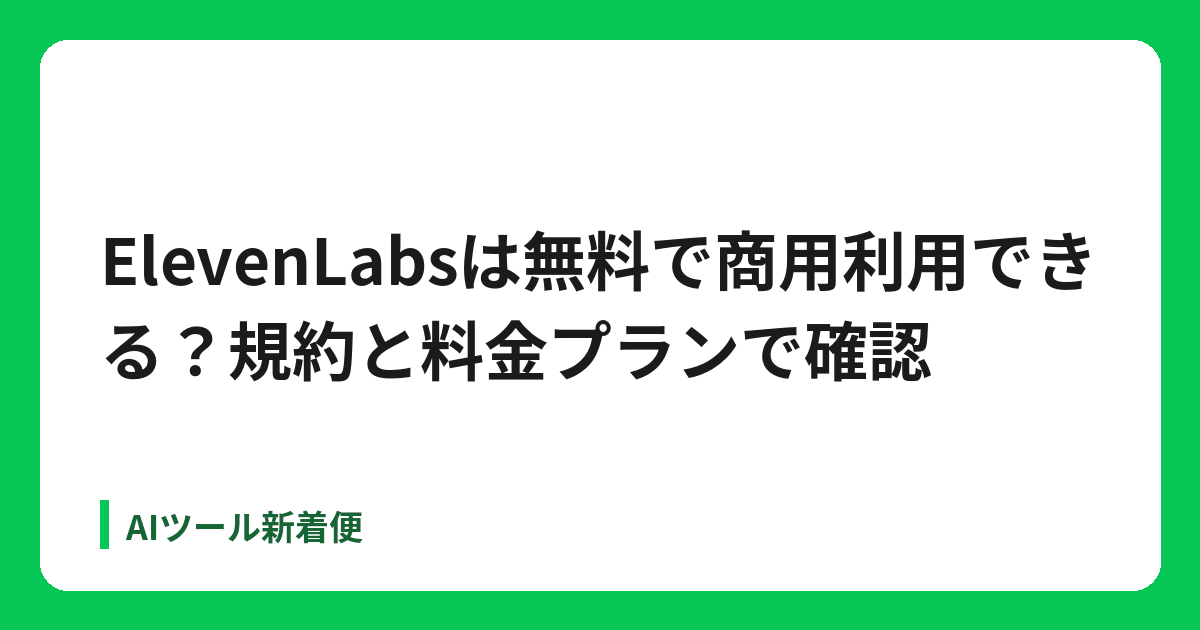
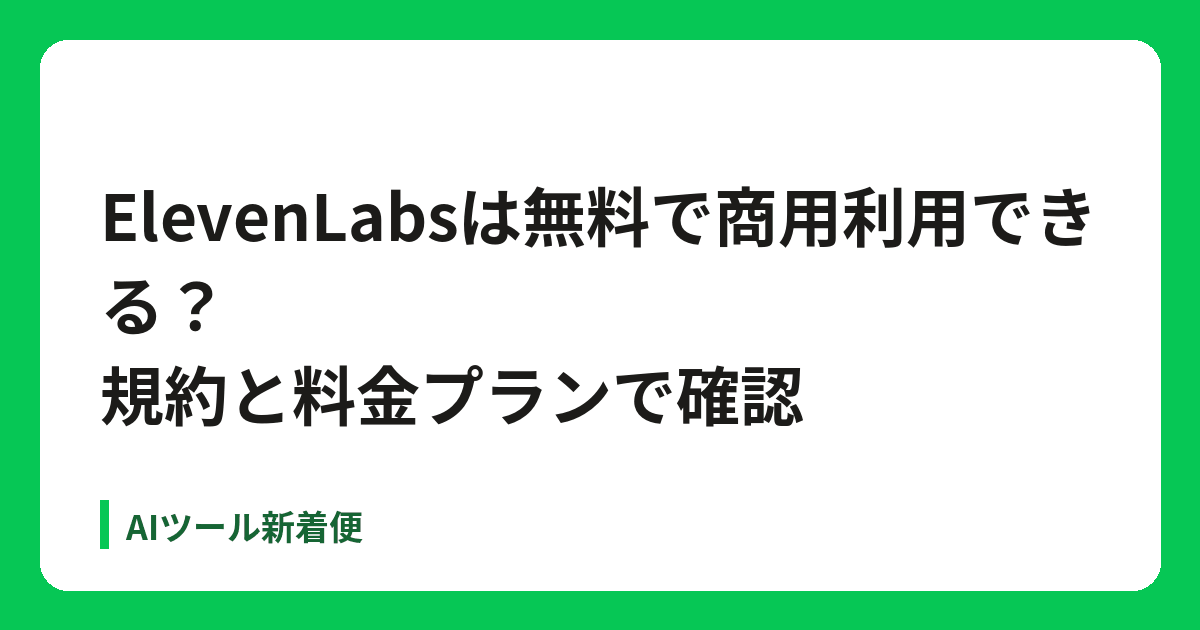
cheapest field, per-tool OG images, table scroll hint

Changed region(s): [[0.0617, 0.3016, 0.925, 0.6937], [0.4008, 0.6635, 0.4317, 0.6937]]

diff --git a/build.js b/build.js
@@ -45,6 +45,7 @@ tbody th,table:not(:has(thead)) th{background:#f6f4ef;font-weight:700;white-spac
 .site-f{margin-top:var(--s7);background:var(--sf);border-top:1px solid var(--bd);padding:var(--s6) 0;font-size:12.5px;color:var(--mu);line-height:1.8}.site-f .links{display:flex;flex-wrap:wrap;gap:var(--s2) var(--s4);margin-bottom:var(--s3);font-size:14px}.site-f .links a{color:var(--tx)}
 
 .ctabox{background:var(--ac-soft);border:1px solid #c7d6fb;border-radius:var(--r);padding:var(--s3) var(--s4);margin:0 0 var(--s5)}.ctabox p{margin:0 0 var(--s2);font-weight:700}.ctabox .cta{min-height:44px;padding:10px 18px}.byline{font-size:13px;color:var(--mu);margin:-8px 0 var(--s4)}.sticky{position:fixed;left:0;right:0;bottom:0;z-index:50;background:rgba(255,255,255,.97);border-top:1px solid var(--bd);padding:8px 12px;display:none;align-items:center;gap:8px}.sticky .cta{margin:0;flex:1;min-height:44px}@media(max-width:640px){.sticky{display:flex}body.hs{padding-bottom:72px}}
+.tw.wide::before{content:'← 横にスクロールできます →';display:none;font-size:12px;color:var(--mu);padding:4px 12px;background:#f6f4ef}@media(max-width:700px){.tw.wide::before{display:block}}
 .glance{border:2px solid #06C755;border-radius:var(--r);padding:var(--s3) var(--s4);margin:0 0 var(--s4);background:#f3fbf5}.glance dl{display:grid;grid-template-columns:6em 1fr;gap:4px 12px;margin:6px 0}.glance dt{font-weight:700}.glance dd{margin:0}.glance p{margin:0;font-size:12px}
 @media(max-width:640px){.w{padding:0 var(--s4)}.site-h .w{padding-top:var(--s2);padding-bottom:var(--s2)}.gnav{gap:0 var(--s3)}.gnav a{font-size:13px}.hero{padding:var(--s6) 0 var(--s5)}h2{font-size:19px;margin-top:var(--s6)}.prose{padding:var(--s5) var(--s4);border-radius:0;border-left:0;border-right:0;margin:0 calc(-1*var(--s4))}.cta{width:100%;margin-right:0}}`;
 const LD=o=>`<script type="application/ld+json">${JSON.stringify(o).replace(/</g,'\\u003c')}</script>`;
@@ -61,12 +62,12 @@ const swExtra=t=>({...(NO_OS.has(t.slug)?{}:{operatingSystem:'Web'}),...(OFFERS[
 const crumbs=items=>({'@context':'https://schema.org','@type':'BreadcrumbList',itemListElement:[['ホーム',BASE+'/'],...items].map(([n,u],i)=>({'@type':'ListItem',position:i+1,name:n,item:u}))});
 const cut=(s,n=120)=>{s=String(s).replace(/\s+/g,' ').trim();return s.length>n?s.slice(0,n-1)+'…':s};
 const last=tools.map(t=>t.checked&&t.checked>t.added?t.checked:t.added).sort().pop();
-function page(file,title,desc,body,rel,ld=[],extra=''){const om=file.match(/^articles\/([^/]+)\/index\.html$/);const OGI=om&&fs.existsSync(`static/og/${om[1]}.png`)?`${BASE}/og/${om[1]}.png`:BASE+'/ogp.png';desc=cut(desc);ld=[...ld];if(file==='index.html')ld.push({'@context':'https://schema.org',...ORG});if(file==='about/index.html')ld.push({'@context':'https://schema.org','@type':['AboutPage','ProfilePage'],name:'このサイトについて',url:BASE+'/about/',inLanguage:'ja',mainEntity:PERSON,about:ORG,publisher:ORG});const LINEBOX=`<aside class="linebox"><a class="linebtn" href="https://line.me/R/ti/p/@014gzpjs" rel="noopener" target="_blank">友だち追加で『無料で使えるAIツールまとめ』をお届け</a><p class="muted">LINE公式アカウント「AIツール新着便」。新着ツールも週に数回お知らせします（<a href="${BASE}/free-ai-tools/">まとめの中身を見る</a>）。</p></aside>`;if(file==='index.html'||/^(articles|tools)\/[^/]+\/index\.html$/.test(file)){body=file==='index.html'?body.replace('</main>',LINEBOX+'</main>'):body.replace(/<\/article>(?![\s\S]*<\/article>)/,LINEBOX+'</article>');if(!body.includes('linebox'))body+=LINEBOX;}
+function page(file,title,desc,body,rel,ld=[],extra=''){const om=file.match(/^(articles|tools)\/([^/]+)\/index\.html$/);const ogn=om?(om[1]==='tools'?'tool-':'')+om[2]:'';const OGI=om&&fs.existsSync(`static/og/${ogn}.png`)?`${BASE}/og/${ogn}.png`:BASE+'/ogp.png';desc=cut(desc);ld=[...ld];if(file==='index.html')ld.push({'@context':'https://schema.org',...ORG});if(file==='about/index.html')ld.push({'@context':'https://schema.org','@type':['AboutPage','ProfilePage'],name:'このサイトについて',url:BASE+'/about/',inLanguage:'ja',mainEntity:PERSON,about:ORG,publisher:ORG});const LINEBOX=`<aside class="linebox"><a class="linebtn" href="https://line.me/R/ti/p/@014gzpjs" rel="noopener" target="_blank">友だち追加で『無料で使えるAIツールまとめ』をお届け</a><p class="muted">LINE公式アカウント「AIツール新着便」。新着ツールも週に数回お知らせします（<a href="${BASE}/free-ai-tools/">まとめの中身を見る</a>）。</p></aside>`;if(file==='index.html'||/^(articles|tools)\/[^/]+\/index\.html$/.test(file)){body=file==='index.html'?body.replace('</main>',LINEBOX+'</main>'):body.replace(/<\/article>(?![\s\S]*<\/article>)/,LINEBOX+'</article>');if(!body.includes('linebox'))body+=LINEBOX;}
  const url=BASE+'/'+file.replace(/index\.html$/,'');
- const html=`<!doctype html><html lang="ja"><head><meta charset="utf-8"><meta name="google-site-verification" content="-RhR2AgKD_cLSTma99Py4nnyhNmMMy9uCjkd0DmdD20">${MSVALIDATE?`<meta name="msvalidate.01" content="${esc(MSVALIDATE)}">`:''}<meta name='impact-site-verification' value='b002e19d-f967-4cdd-98f3-9cc81d70bd96'><meta name="viewport" content="width=device-width,initial-scale=1"><title>${esc(title)}</title><meta name="description" content="${esc(desc)}"><link rel="canonical" href="${url}"><meta property="og:type" content="${file==='index.html'?'website':'article'}"><meta property="og:site_name" content="${SITE}"><meta property="og:title" content="${esc(title)}"><meta property="og:description" content="${esc(desc)}"><meta property="og:url" content="${url}"><meta property="og:locale" content="ja_JP"><meta property="og:image" content="${OGI}"><meta property="og:image:width" content="1200"><meta property="og:image:height" content="630"><meta name="twitter:card" content="summary_large_image"><meta name="twitter:image" content="${OGI}"><meta name="twitter:title" content="${esc(title)}"><meta name="twitter:description" content="${esc(desc)}"><meta property="og:image:alt" content="${SITE}">${extra}${ld.map(LD).join('')}<link rel="alternate" type="application/rss+xml" title="${SITE}" href="${BASE}/rss.xml"><link rel="alternate" type="application/atom+xml" title="${SITE}" href="${BASE}/atom.xml"><style>${css}.linebox{margin:2em 0;padding:1em;border:1px solid #cfe9d6;border-radius:10px;background:#f3fbf5;text-align:center}.linebtn{display:inline-block;background:#06C755;color:#fff!important;font-weight:700;padding:.75em 1.4em;border-radius:999px;text-decoration:none}.linebtn:hover{opacity:.9}.linebox p{margin:.6em 0 0;font-size:.9em}</style></head><body><header class="site-h"><div class="w"><a class="logo" href="${rel}"><b>AI</b>ツール新着便</a><nav class="gnav" aria-label="サイト内"><a href="${rel}categories/">カテゴリ</a><a href="${rel}articles/">比較記事</a><a href="${rel}free/">無料で使える</a><a href="${rel}submit/">掲載申し込み</a><a href="${rel}about/">このサイトについて</a></div></header>${file==='index.html'?body:`<main class="w">${body.replace(/<table/g,'<div class="tw"><table').replace(/<\/table>/g,'</table></div>')}</main>`}<footer class="site-f"><div class="w"><div class="links"><a href="${rel}about/">運営者情報</a><a href="${rel}privacy/">プライバシーポリシー</a><a href="${rel}contact/">お問い合わせ</a><a href="${rel}newsletter/">メール</a><a href="${BASE}/rss.xml">RSS</a><a href="${BASE}/atom.xml">Atom</a></div><small>© ${SITE}｜当サイトはアフィリエイトプログラムを利用しています。掲載情報は公式サイトをもとにしています。最新の内容は必ず公式サイトでご確認ください。｜ElevenLabs and the ElevenLabs logo are registered trademarks or trademarks of ElevenLabs, Inc. Used with permission. AIツール新着便 is not sponsored by, endorsed by, or affiliated with ElevenLabs except as an independent participant in the ElevenLabs Creator Affiliate Program.</small></div></footer></body></html>`;
+ const html=`<!doctype html><html lang="ja"><head><meta charset="utf-8"><meta name="google-site-verification" content="-RhR2AgKD_cLSTma99Py4nnyhNmMMy9uCjkd0DmdD20">${MSVALIDATE?`<meta name="msvalidate.01" content="${esc(MSVALIDATE)}">`:''}<meta name='impact-site-verification' value='b002e19d-f967-4cdd-98f3-9cc81d70bd96'><meta name="viewport" content="width=device-width,initial-scale=1"><title>${esc(title)}</title><meta name="description" content="${esc(desc)}"><link rel="canonical" href="${url}"><meta property="og:type" content="${file==='index.html'?'website':'article'}"><meta property="og:site_name" content="${SITE}"><meta property="og:title" content="${esc(title)}"><meta property="og:description" content="${esc(desc)}"><meta property="og:url" content="${url}"><meta property="og:locale" content="ja_JP"><meta property="og:image" content="${OGI}"><meta property="og:image:width" content="1200"><meta property="og:image:height" content="630"><meta name="twitter:card" content="summary_large_image"><meta name="twitter:image" content="${OGI}"><meta name="twitter:title" content="${esc(title)}"><meta name="twitter:description" content="${esc(desc)}"><meta property="og:image:alt" content="${SITE}">${extra}${ld.map(LD).join('')}<link rel="alternate" type="application/rss+xml" title="${SITE}" href="${BASE}/rss.xml"><link rel="alternate" type="application/atom+xml" title="${SITE}" href="${BASE}/atom.xml"><style>${css}.linebox{margin:2em 0;padding:1em;border:1px solid #cfe9d6;border-radius:10px;background:#f3fbf5;text-align:center}.linebtn{display:inline-block;background:#06C755;color:#fff!important;font-weight:700;padding:.75em 1.4em;border-radius:999px;text-decoration:none}.linebtn:hover{opacity:.9}.linebox p{margin:.6em 0 0;font-size:.9em}</style></head><body><header class="site-h"><div class="w"><a class="logo" href="${rel}"><b>AI</b>ツール新着便</a><nav class="gnav" aria-label="サイト内"><a href="${rel}categories/">カテゴリ</a><a href="${rel}articles/">比較記事</a><a href="${rel}free/">無料で使える</a><a href="${rel}submit/">掲載申し込み</a><a href="${rel}about/">このサイトについて</a></div></header>${file==='index.html'?body:`<main class="w">${body.replace(/<table(?=[^>]*>\s*<thead)/g,'<div class="tw wide"><table').replace(/<table(?![^>]*>\s*<thead)/g,'<div class="tw"><table').replace(/<\/table>/g,'</table></div>')}</main>`}<script>document.querySelectorAll('.tw').forEach(function(e){if(e.scrollWidth>e.clientWidth+4)e.classList.add('wide')})</script><footer class="site-f"><div class="w"><div class="links"><a href="${rel}about/">運営者情報</a><a href="${rel}privacy/">プライバシーポリシー</a><a href="${rel}contact/">お問い合わせ</a><a href="${rel}newsletter/">メール</a><a href="${BASE}/rss.xml">RSS</a><a href="${BASE}/atom.xml">Atom</a></div><small>© ${SITE}｜当サイトはアフィリエイトプログラムを利用しています。掲載情報は公式サイトをもとにしています。最新の内容は必ず公式サイトでご確認ください。｜ElevenLabs and the ElevenLabs logo are registered trademarks or trademarks of ElevenLabs, Inc. Used with permission. AIツール新着便 is not sponsored by, endorsed by, or affiliated with ElevenLabs except as an independent participant in the ElevenLabs Creator Affiliate Program.</small></div></footer></body></html>`;
  fs.mkdirSync(path.dirname(path.join(OUT,file)),{recursive:true});fs.writeFileSync(path.join(OUT,file),html);
 }
-const segs=t=>String(t.pricing||'').split(/／/).map(x=>x.trim()).filter(Boolean);const freeSeg=t=>isFree(t)?(segs(t).find(x=>/無料|Free|フリー|[￥¥$]0(?![\d.,])|(^|[^\d,])0円/.test(x))||'あり（詳細は料金欄）'):'未確認（料金欄に無料プランの記載なし）';const paidSeg=t=>segs(t).find(x=>/([￥¥$]\s?[1-9][\d,.]*|[1-9][\d,]*円|[1-9][\d,]*ドル)/.test(x))||'未確認';const glance=t=>`<div class="glance"><b>料金ひと目で</b><dl><dt>無料枠</dt><dd>${esc(freeSeg(t))}</dd><dt>有料プラン</dt><dd>${esc(paidSeg(t))}</dd></dl><p class="muted">料金欄の表記から抜き出したもので、最安とは限りません。確認日 ${t.checked||'未確認'}。</p></div>`;
+const segs=t=>String(t.pricing||'').split(/／/).map(x=>x.trim()).filter(Boolean);const freeSeg=t=>isFree(t)?(segs(t).find(x=>/無料|Free|フリー|[￥¥$]0(?![\d.,])|(^|[^\d,])0円/.test(x))||'あり（詳細は料金欄）'):'未確認（料金欄に無料プランの記載なし）';const paidSeg=t=>segs(t).find(x=>/([￥¥$]\s?[1-9][\d,.]*|[1-9][\d,]*円|[1-9][\d,]*ドル)/.test(x))||'未確認';const glance=t=>`<div class="glance"><b>料金ひと目で</b><dl><dt>無料枠</dt><dd>${esc(freeSeg(t))}</dd><dt>最安の有料プラン</dt><dd>${esc(t.cheapest||'未確認')}</dd></dl><p class="muted">料金欄・公式料金ページの表記にもとづきます。確認日 ${t.checked||'未確認'}。</p></div>`;
 const badges=t=>(isFree(t)?'<span class="badge b-free">無料あり</span>':'')+(/日本語/.test(t.japanese||'')&&!/非対応|未対応|なし|未確認/.test(t.japanese||'')?'<span class="badge b-ja">日本語対応</span>':'');
 const card=(t,rel)=>`<div class="card" data-cat="${esc(t.category)}" data-q="${esc((t.name+' '+t.category+' '+t.summary+' '+(isFree(t)?'無料':'')).toLowerCase())}"><a class="cat" href="${rel}category/${catSlug(t.category)}/">${esc(t.category)}</a><h3><a href="${rel}tools/${t.slug}/">${esc(t.name)}</a></h3><p>${esc(t.summary)}</p><div>${badges(t)}</div><div class="date">追加 ${t.added}${t.checked?' ・ 確認 '+t.checked:''}</div></div>`;
 const arts=require('./data/articles.js');
@@ -75,7 +76,7 @@ const toolArts=t=>arts.filter(a=>artTools(a).includes(t.slug));
 page('index.html',`${SITE}｜新しいAIツールを日本語で毎日紹介`,`新しいAIツールを日本語でわかりやすく紹介する新着まとめサイト。${cats.join('・')}など全${tools.length}件を公式サイトの情報をもとに掲載しています。`,
 `<section class="hero"><div class="w"><span class="kicker">毎日更新</span><h1>新しいAIツールを、毎日わかりやすく。</h1><p class="lead">料金・無料枠・日本語対応を公式サイトで確認して掲載（掲載 ${tools.length} ツール）</p><div class="search" role="search"><input id="q" type="search" aria-label="ツールを検索" placeholder="例：文字起こし、画像生成、無料"></div><div class="chips" id="f"><button class="tag on" data-c="">すべて</button>${cats.map(c=>`<button class="tag" data-c="${esc(c)}">${esc(c)} <small>(${tools.filter(t=>t.category===c).length})</small></button>`).join('')}<a class="chip" href="./free/">無料で使えるツール →</a></div></div></section><main class="w">${(()=>{const d=new Date(last);d.setDate(d.getDate()-6);const ws=d.toISOString().slice(0,10);const nw=tools.filter(t=>t.added>=ws).slice(0,8);return nw.length?`<div class="sec-h"><h2>今週の新着ツール</h2><span class="muted">${ws}〜${last}・${nw.length}件</span></div><div class="grid">${nw.map(t=>card(t,"./")).join("")}</div>`:""})()}<div class="sec-h"><h2>比較・解説記事</h2><a href="./articles/">記事一覧 →</a></div><div class="arts">${arts.map(a=>`<a class="art" href="./articles/${a.slug}/"><small>${a.updated||a.date||''}</small>${esc(a.title)}</a>`).join('')}</div><div class="sec-h"><h2>新着AIツール</h2><span class="muted" id="cnt">全${tools.length}件・新しい順</span></div><div class="grid">${tools.map(t=>card(t,'./')).join('')}</div></main><script>(function(){var c='',q=document.getElementById('q'),bs=document.querySelectorAll('#f button'),cs=document.querySelectorAll('.grid .card'),n=document.getElementById('cnt');function u(){var v=q.value.trim().toLowerCase(),k=0;cs.forEach(function(e){var s=(!c||e.dataset.cat===c)&&(!v||e.dataset.q.indexOf(v)>=0);e.style.display=s?'':'none';if(s)k++});n.textContent=k+'件表示'}bs.forEach(function(b){b.onclick=function(){bs.forEach(function(x){x.classList.remove('on')});b.classList.add('on');c=b.dataset.c;u()}});q.oninput=u})()</script>`,'./',[{'@context':'https://schema.org','@type':'WebSite',name:SITE,url:BASE+'/',inLanguage:'ja'},{'@context':'https://schema.org','@type':'ItemList',name:'新着AIツール',numberOfItems:tools.length,itemListElement:tools.map((t,i)=>({'@type':'ListItem',position:i+1,url:`${BASE}/tools/${t.slug}/`,name:t.name}))}]);
 for(const t of tools){page(`tools/${t.slug}/index.html`,`${t.name}とは？使い方・料金｜${SITE}`,t.description||t.summary,
-`<article class="prose"><nav class="muted"><a href="../../">ホーム</a> › <a href="../../category/${catSlug(t.category)}/">${esc(t.category)}</a> › ${esc(t.name)}</nav><h1>${esc(t.name)}</h1><p>${badges(t)}</p><p>${esc(t.summary)}</p><p class="byline">運営者：<a href="../../about/">マルイ</a>／情報確認日 ${t.checked||'未確認'}</p>${glance(t)}${t.affiliate?`<p><a class="cta" href="${esc(t.affiliate.url)}" rel="sponsored nofollow noopener" target="_blank">${esc(t.affiliate.label||t.name+'を試す')}</a><span class="pr">PR</span>${t.affiliate.pixel?`<img src="${esc(t.affiliate.pixel)}" width="1" height="1" alt="" style="border:0">`:''}</p><p class="muted">${esc(t.affiliate.disclosure||'上のボタンはアフィリエイトリンク（PR）です。')}</p>`:''}<table><tr><th>カテゴリ</th><td><a href="../../category/${catSlug(t.category)}/">${esc(t.category)}</a></td></tr><tr><th>使い道</th><td><ul>${t.uses.map(u=>`<li>${esc(u)}</li>`).join('')}</ul></td></tr><tr><th>料金</th><td>${esc(t.pricing)}</td></tr><tr><th>日本語対応</th><td>${esc(t.japanese)}</td></tr><tr><th>公式サイト</th><td><a href="${esc(t.url)}" rel="noopener" target="_blank">${esc(t.url)}</a></td></tr><tr><th>追加日</th><td>${t.added}</td></tr><tr><th>情報確認日</th><td>${t.checked||'未確認'}</td></tr></table><p class="muted">「未確認」は公式サイトで確認できなかった項目です。</p>${t.affiliate?`<div class="ctabox"><p>料金・無料枠を公式サイトで確認する<span class="pr">PR</span></p><a class="cta" href="${esc(t.affiliate.url)}" rel="sponsored nofollow noopener" target="_blank">${esc(t.affiliate.label||t.name+'を試す')}</a></div><div class="sticky"><a class="cta" href="${esc(t.affiliate.url)}" rel="sponsored nofollow noopener" target="_blank">${esc(t.name)}の公式サイト</a><span class="pr">PR</span></div><script>document.body.classList.add('hs')</script>`:''}<h2>よくある質問</h2><h3>Q. ${esc(t.name)}の料金は？</h3><p>A. ${esc(t.pricing)}</p><h3>Q. ${esc(t.name)}は日本語に対応していますか？</h3><p>A. ${esc(t.japanese)}</p>${(()=>{const ra=toolArts(t);return ra.length?`<h2>${esc(t.name)}を紹介している記事</h2><ul>${ra.map(a=>`<li><a href="../../articles/${a.slug}/">${esc(a.title)}</a></li>`).join('')}</ul>`:''})()}${(()=>{const rl=tools.filter(x=>x.category===t.category&&x.slug!==t.slug).slice(0,5);return rl.length?`<h2>${esc(t.category)}の関連ツール</h2><ul>${rl.map(x=>`<li><a href="../${x.slug}/">${esc(x.name)}</a></li>`).join('')}</ul>`:''})()}<h2>ほかのカテゴリ</h2><p>${cats.filter(c=>c!==t.category).map(c=>`<a class="tag" href="../../category/${catSlug(c)}/">${esc(c)}</a>`).join(' ')}</p></article>`,'../../',[{'@context':'https://schema.org','@type':'SoftwareApplication',name:t.name,url:t.url,description:t.description||t.summary,applicationCategory:t.category,inLanguage:'ja',mainEntityOfPage:`${BASE}/tools/${t.slug}/`,...swExtra(t)},crumbs([[t.category,`${BASE}/category/${catSlug(t.category)}/`],[t.name,`${BASE}/tools/${t.slug}/`]]),{'@context':'https://schema.org','@type':'FAQPage',mainEntity:[[t.name+'の料金は？',t.pricing],[t.name+'は日本語に対応していますか？',t.japanese]].map(([q,an])=>({'@type':'Question',name:q,acceptedAnswer:{'@type':'Answer',text:an}}))}]);}
+`<article class="prose"><nav class="muted"><a href="../../">ホーム</a> › <a href="../../category/${catSlug(t.category)}/">${esc(t.category)}</a> › ${esc(t.name)}</nav><h1>${esc(t.name)}</h1><p>${badges(t)}</p><p>${esc(t.summary)}</p><p class="byline">運営者：<a href="../../about/">マルイ</a>／情報確認日 ${t.checked||'未確認'}</p>${glance(t)}${t.affiliate?`<p><a class="cta" href="${esc(t.affiliate.url)}" rel="sponsored nofollow noopener" target="_blank">${esc(t.affiliate.label||t.name+'を試す')}</a><span class="pr">PR</span>${t.affiliate.pixel?`<img src="${esc(t.affiliate.pixel)}" width="1" height="1" alt="" style="border:0">`:''}</p><p class="muted">${esc(t.affiliate.disclosure||'上のボタンはアフィリエイトリンク（PR）です。')}</p>`:''}<table><tr><th>カテゴリ</th><td><a href="../../category/${catSlug(t.category)}/">${esc(t.category)}</a></td></tr><tr><th>使い道</th><td><ul>${t.uses.map(u=>`<li>${esc(u)}</li>`).join('')}</ul></td></tr><tr><th>料金</th><td>${esc(t.pricing)}</td></tr><tr><th>日本語対応</th><td>${esc(t.japanese)}</td></tr><tr><th>公式サイト</th><td><a href="${esc(t.url)}" rel="noopener" target="_blank">${esc(t.url)}</a></td></tr><tr><th>追加日</th><td>${t.added}</td></tr><tr><th>情報確認日</th><td>${t.checked||'未確認'}</td></tr></table><p class="muted">「未確認」は公式サイトで確認できなかった項目です。</p>${t.affiliate?`<div class="ctabox"><p>料金・無料枠を公式サイトで確認する<span class="pr">PR</span></p><a class="cta" href="${esc(t.affiliate.url)}" rel="sponsored nofollow noopener" target="_blank">${esc(t.affiliate.label||t.name+'を試す')}</a></div><div class="sticky"><a class="cta" href="${esc(t.affiliate.url)}" rel="sponsored nofollow noopener" target="_blank">${esc(t.name)}の公式サイト</a><span class="pr">PR</span></div><script>document.body.classList.add('hs')</script>`:''}<h2>よくある質問</h2><h3>Q. ${esc(t.name)}の料金は？</h3><p>A. ${esc(t.pricing)}</p><h3>Q. ${esc(t.name)}は日本語に対応していますか？</h3><p>A. ${esc(t.japanese)}</p>${(()=>{const ra=toolArts(t);return ra.length?`<h2>${esc(t.name)}を紹介している記事</h2><ul>${ra.map(a=>`<li><a href="../../articles/${a.slug}/">${esc(a.title)}</a></li>`).join('')}</ul>`:''})()}${(()=>{const rl=tools.filter(x=>x.category===t.category&&x.slug!==t.slug).slice(0,5);return rl.length?`<h2>${esc(t.category)}の関連ツール</h2><ul>${rl.map(x=>`<li><a href="../${x.slug}/">${esc(x.name)}</a></li>`).join('')}</ul>`:''})()}<h2>ほかのカテゴリ</h2><p>${cats.filter(c=>c!==t.category).map(c=>`<a class="tag" href="../../category/${catSlug(c)}/">${esc(c)}</a>`).join(' ')}</p></article>`,'../../',[{'@context':'https://schema.org','@type':'SoftwareApplication',name:t.name,url:t.url,description:t.description||t.summary,applicationCategory:t.category,image:fs.existsSync(`static/og/tool-${t.slug}.png`)?`${BASE}/og/tool-${t.slug}.png`:BASE+'/ogp.png',inLanguage:'ja',mainEntityOfPage:`${BASE}/tools/${t.slug}/`,...swExtra(t)},crumbs([[t.category,`${BASE}/category/${catSlug(t.category)}/`],[t.name,`${BASE}/tools/${t.slug}/`]]),{'@context':'https://schema.org','@type':'FAQPage',mainEntity:[[t.name+'の料金は？',t.pricing],[t.name+'は日本語に対応していますか？',t.japanese]].map(([q,an])=>({'@type':'Question',name:q,acceptedAnswer:{'@type':'Answer',text:an}}))}]);}
 page('categories/index.html',`カテゴリ一覧｜${SITE}`,`AIツールのカテゴリ一覧。${cats.map(c=>`${c}（${tools.filter(t=>t.category===c).length}件）`).join('・')}`,`<h1>カテゴリ</h1>${cats.map(c=>`<div class="card"><a href="../category/${catSlug(c)}/">${esc(c)}</a>（${tools.filter(t=>t.category===c).length}件）</div>`).join('')}`,'../',[crumbs([['カテゴリ',BASE+'/categories/']])]);
 for(const c of cats)page(`category/${c}/index.html`,`${c}のAIツール｜${SITE}`,`${c}カテゴリの新着AIツール${tools.filter(t=>t.category===c).length}件：${tools.filter(t=>t.category===c).map(t=>t.name).join('、')}`,`<nav class="muted"><a href="../../">ホーム</a> › <a href="../../categories/">カテゴリ</a> › ${esc(c)}</nav><h1>${esc(c)}のAIツール</h1>${INTRO[c]?`<p>${INTRO[c]}</p>`:''}<p class="muted">${tools.filter(t=>t.category===c).length}件・新しい順／<a href="../../free/">無料で使えるツールだけ見る</a></p>${tools.filter(t=>t.category===c).map(t=>card(t,'../../')).join('')}<h2>ほかのカテゴリ</h2><p>${cats.filter(x=>x!==c).map(x=>`<a class="tag" href="../${catSlug(x)}/">${esc(x)}</a>`).join(' ')}</p>`,'../../',[crumbs([['カテゴリ',BASE+'/categories/'],[c,`${BASE}/category/${catSlug(c)}/`]])]);
 page('submit/index.html',`掲載申し込み｜${SITE}`,'AIツールの掲載申し込みについて',`<article class="prose"><h1>掲載申し込み</h1><h2>無料掲載</h2><p>AIツールの掲載は無料で受け付ける予定です。編集部で公式サイトの内容を確認したうえで、順番に掲載します。掲載内容や順番は編集方針にもとづいて決め、誇張した表現は使いません。</p><div class="box">申し込みは <a href="https://github.com/888marui/ai-tools-shinchaku/issues/new?template=listing.yml" rel="noopener">GitHubの申し込みフォーム</a> から受け付けています（GitHubアカウントが必要です）。</div><h2>有料オプション</h2><p>優先掲載などの有料オプションは<b>準備中</b>です（料金は未定）。</p></article>`,'../');

diff --git a/og.py b/og.py
@@ -1,17 +1,18 @@
 import json,subprocess,os
 from PIL import Image,ImageDraw,ImageFont
-arts=json.loads(subprocess.check_output(['node','-e',"console.log(JSON.stringify(require('./data/articles.js').map(a=>[a.slug,a.title])))"]))
+arts=[(f'tool-{t["slug"]}',t['name']+'とは？使い方・料金') for t in json.load(open('data/tools.json'))]+json.loads(subprocess.check_output(['node','-e',"console.log(JSON.stringify(require('./data/articles.js').map(a=>[a.slug,a.title])))"]))
 F='/usr/share/fonts/opentype/noto/NotoSansCJK-Bold.ttc'
 os.makedirs('static/og',exist_ok=True)
 def wrap(d,t,f,w):
     L=[];c=''
     import re
     for ch in re.findall(r'[A-Za-z0-9;.\-]+(?: (?=[A-Za-z]))?|.',t):
-        if c.endswith('：') or d.textlength(c+ch,font=f)>w: L.append(c);c=ch.lstrip()
+        if c.endswith(('：','？')) or d.textlength(c+ch,font=f)>w: L.append(c);c=ch.lstrip()
         else: c+=ch
     return L+[c]
 for slug,title in arts:
     out=f'static/og/{slug}.png'
+    if os.path.exists(out) and os.path.getmtime(out)>os.path.getmtime('data/tools.json') and slug.startswith('tool-'): continue
     im=Image.new('RGB',(1200,630),'#06C755');d=ImageDraw.Draw(im)
     d.rounded_rectangle((40,40,1160,590),28,fill='white')
     for size in (64,58,52,46):
